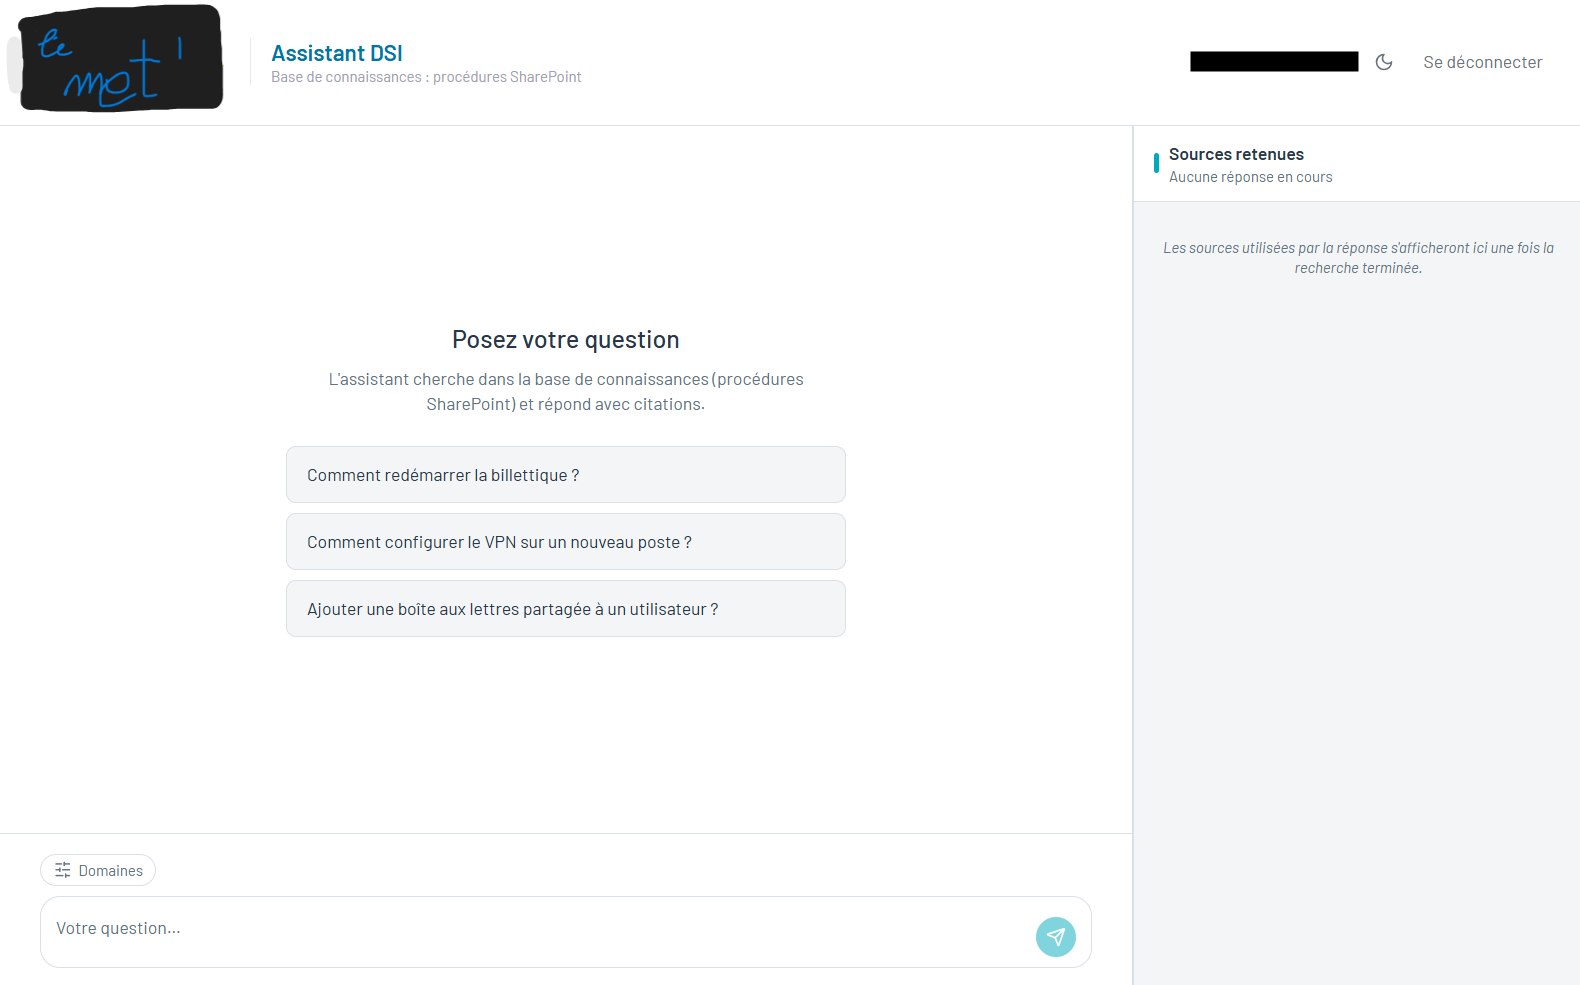
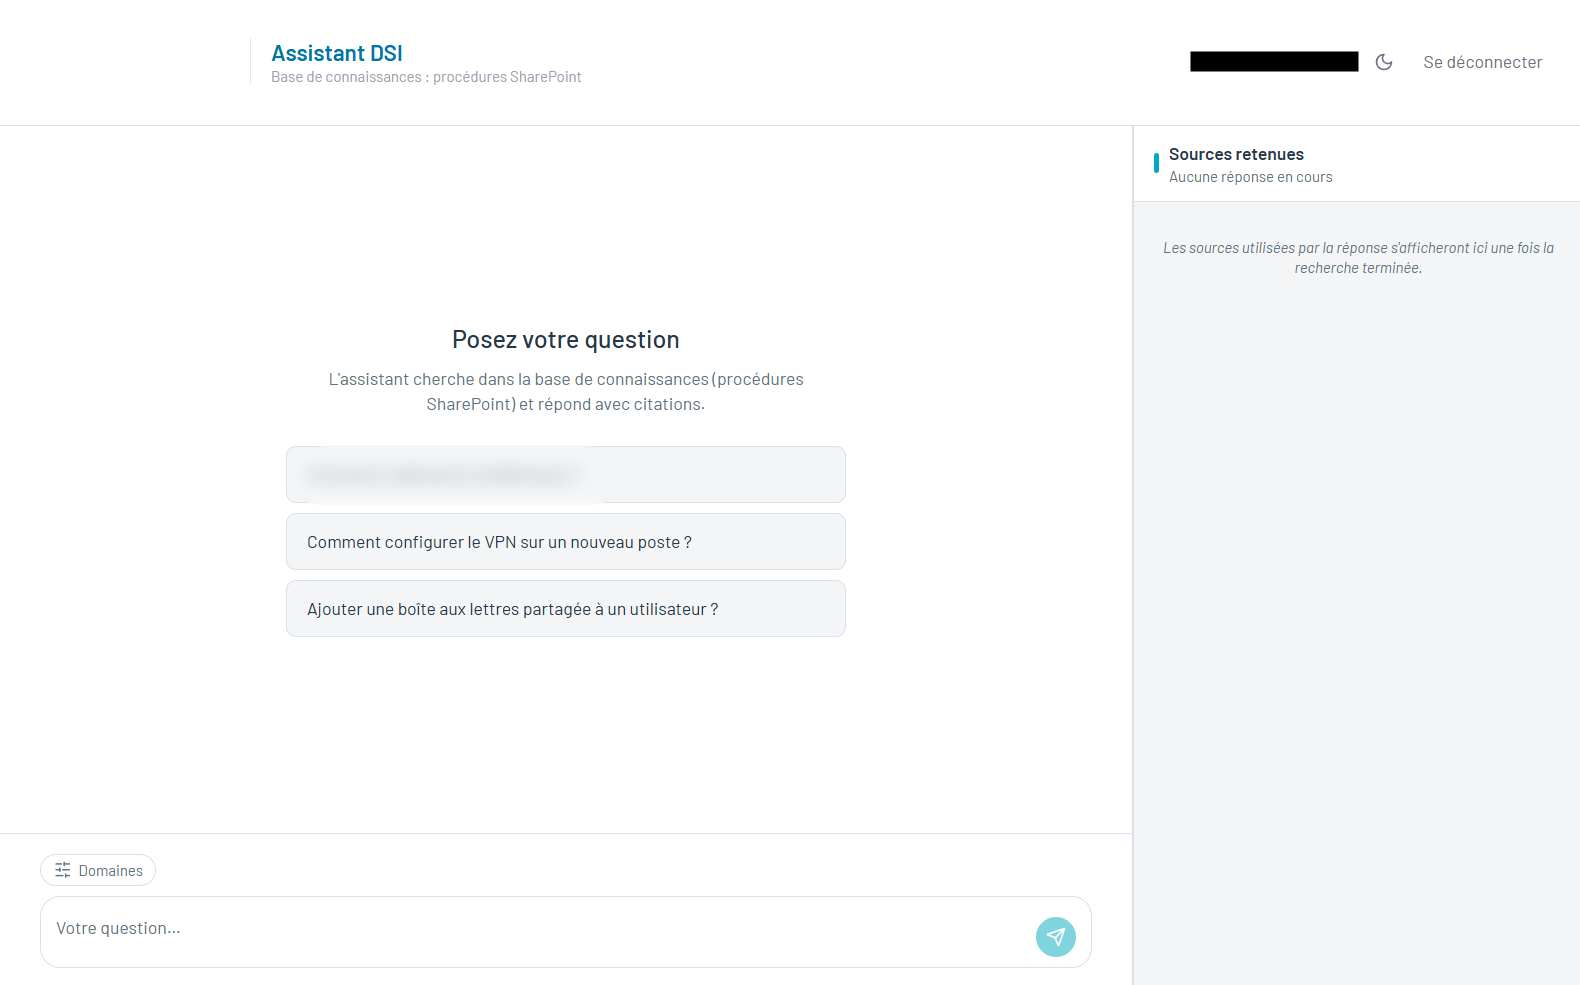
anonymisation des données

Changed region(s): [[0.0, 0.0, 0.1551, 0.1218], [0.1861, 0.4569, 0.3722, 0.4873]]

diff --git a/app/dico.ts b/app/dico.ts
@@ -114,7 +114,7 @@ export const dico = {
       {
         nom: "Assistant documentaire RAG interne",
         visuel: "chatbot-rag.png",
-        contexte: "DSI LE MET' · 2026",
+        contexte: "Projet d'entreprise · 2026",
         resume:
           "Un chatbot qui répond aux questions des équipes à partir de la documentation interne, hébergé entièrement sur les serveurs de l'entreprise : aucune donnée ne sort du réseau.",
         role: [
@@ -142,7 +142,7 @@ export const dico = {
             {
         nom: "Gestion du parc informatique",
         visuel: "tools-lemet.png",
-        contexte: "DSI LE MET' · 2026",
+        contexte: "Projet d'entreprise · 2026",
         resume:
           "L'application utilisée par la DSI pour suivre les remises et reprises de matériel auprès des agents, branchée sur l'inventaire existant.",
         role: [
@@ -287,7 +287,7 @@ export const dico = {
       {
         nom: "Internal RAG documentation assistant",
         visuel: "chatbot-rag.png",
-        contexte: "LE MET' IT · 2026",
+        contexte: "Company project · 2026",
         resume:
           "A chatbot answering staff questions from internal documentation, hosted entirely on company servers: no data leaves the network.",
         role: [
@@ -315,7 +315,7 @@ export const dico = {
       {
         nom: "IT asset management",
         visuel: "tools-lemet.png",
-        contexte: "LE MET' IT · 2026",
+        contexte: "Company project · 2026",
         resume:
           "The application the IT department uses to track equipment handed to and returned by staff, wired into the existing inventory.",
         role: [
